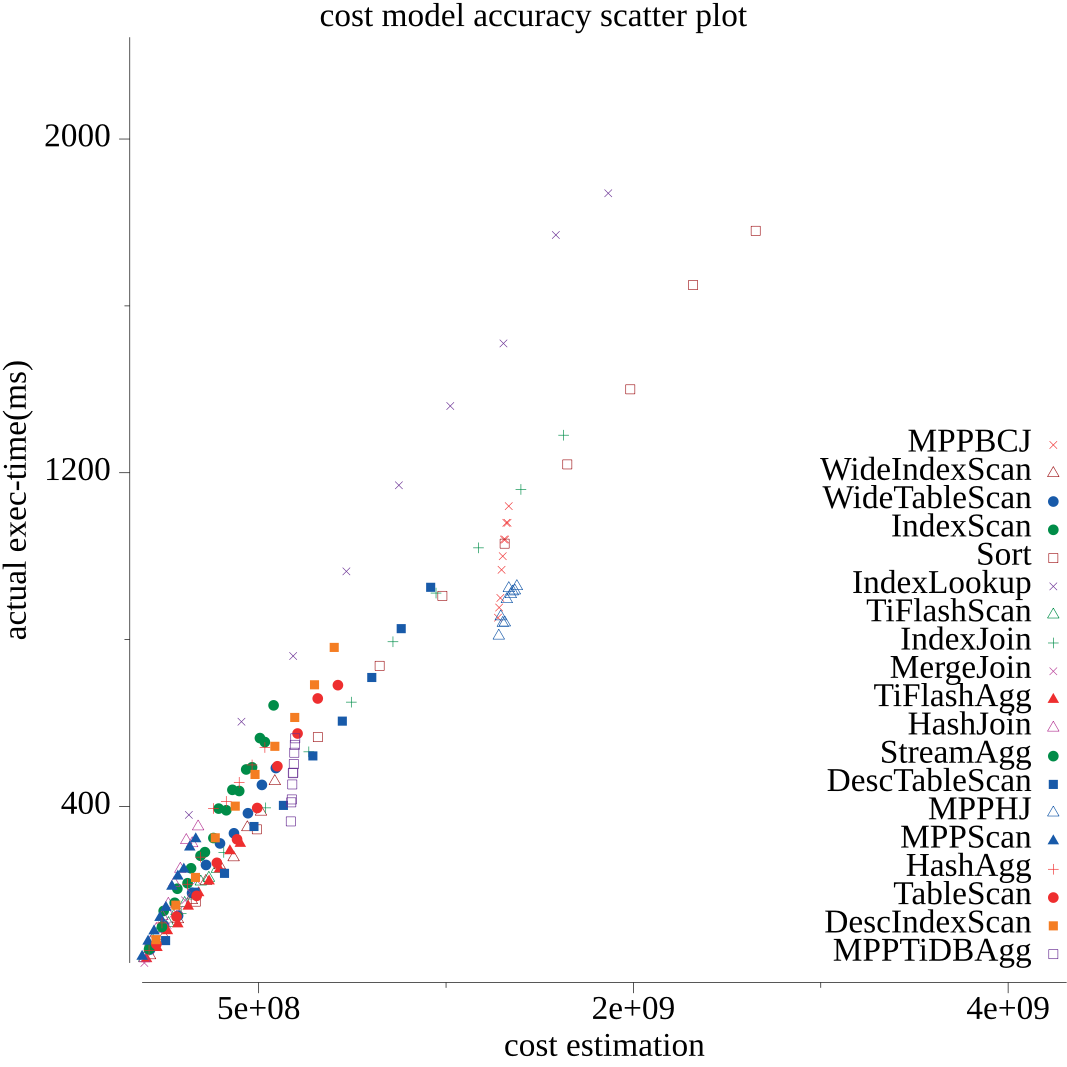
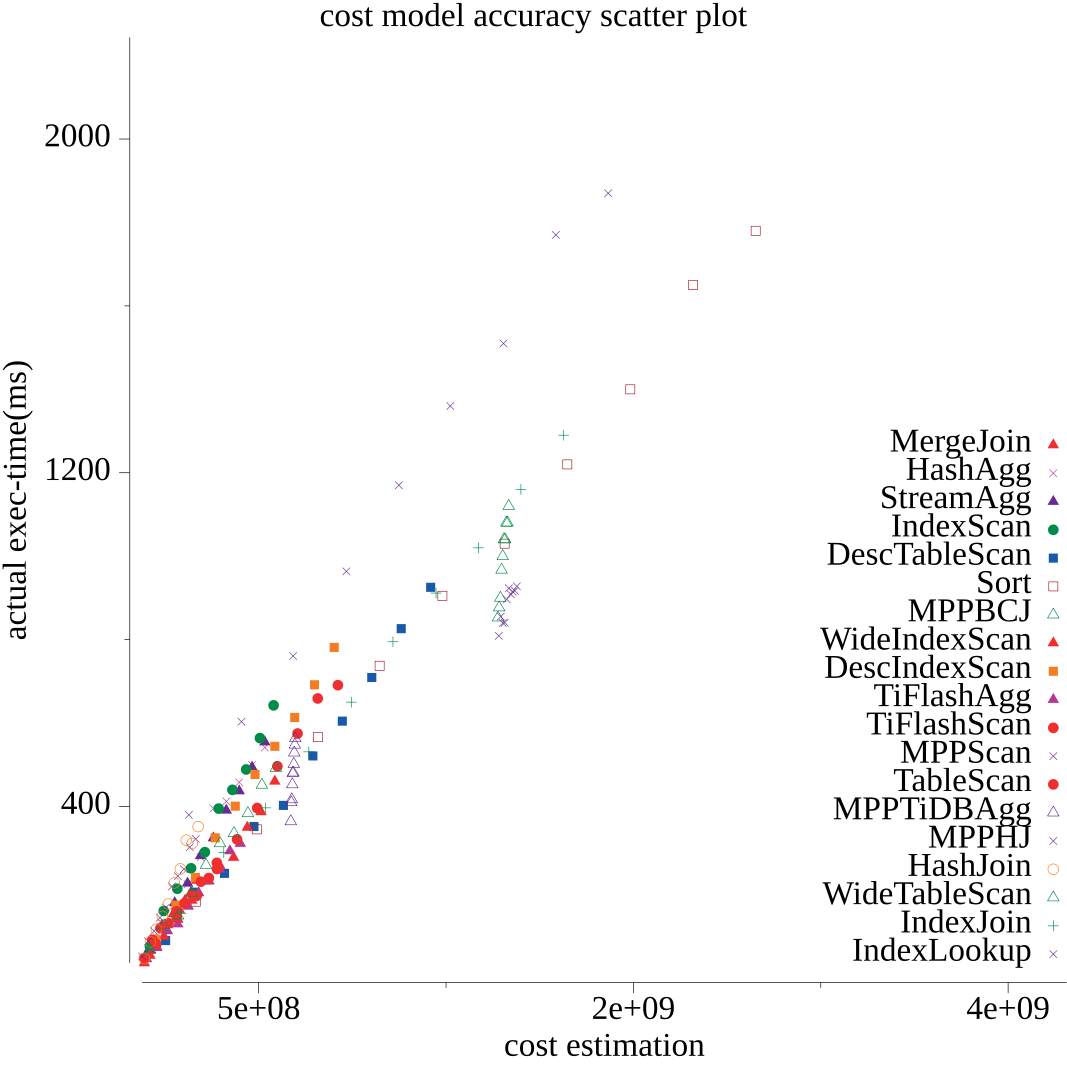
fixup

Changed region(s): [[0.7732, 0.4021, 1.0, 0.9278], [0.1237, 0.6804, 0.2784, 0.9278], [0.4639, 0.4639, 0.4948, 0.5876]]

diff --git a/cost/eval_synthetic.go b/cost/eval_synthetic.go
@@ -40,7 +40,9 @@ var syntheticExecTimeRatio = map[string]float64{
 	"TiFlashScan":  4,  // 250ms
 	"TiFlashAgg":   40, // 25ms
 	"MPPScan":      10, // 100ms
-	"MPPTiDBAgg":   4,  // 250ms
+	"MPPTiDBAgg1":  4,  // 250ms
+	"MPPTiDBAgg2":  4,
+	"MPP1PhaseAgg": 4,
 	"MPP2PhaseAgg": 4,
 	"MPPHJ":        0.5, // 1.5s
 	"MPPBCJ":       0.5,
@@ -82,8 +84,10 @@ func genSyntheticEvalQueries(ins tidb.Instance, db string, n int) Queries {
 	qs = append(qs, genSyntheticEvalTiFlashScan(ins, getSyntheticScale("TiFlashScan"), n)...)
 	qs = append(qs, genSyntheticEvalMPPScan(ins, getSyntheticScale("MPPScan"), n)...)
 	qs = append(qs, genSyntheticEvalTiFlashAgg(ins, getSyntheticScale("TiFlashAgg"), n)...)
-	qs = append(qs, genSyntheticEvalMPPTiDBAgg(ins, getSyntheticScale("MPPTiDBAgg"), n)...)
-	//qs = append(qs, genSyntheticEvalMPP2PhaseAgg(ins, getSyntheticScale("MPP2PhaseAgg"), n)...)
+	qs = append(qs, genSyntheticEvalMPPTiDBAgg1(ins, getSyntheticScale("MPPTiDBAgg1"), n)...)
+	qs = append(qs, genSyntheticEvalMPPTiDBAgg1(ins, getSyntheticScale("MPPTiDBAgg2"), n)...)
+	qs = append(qs, genSyntheticEvalMPP2PhaseAgg(ins, getSyntheticScale("MPP1PhaseAgg"), n)...)
+	qs = append(qs, genSyntheticEvalMPP2PhaseAgg(ins, getSyntheticScale("MPP2PhaseAgg"), n)...)
 	qs = append(qs, genSyntheticEvalMPPHJ(ins, getSyntheticScale("MPPHJ"), n)...)
 	qs = append(qs, genSyntheticEvalMPPBCJ(ins, getSyntheticScale("MPPBCJ"), n)...)
 	return qs
@@ -352,17 +356,51 @@ func genSyntheticEvalTiFlashAgg(ins tidb.Instance, scale float64, n int) (qs Que
 	return
 }
 
-func genSyntheticEvalMPPTiDBAgg(ins tidb.Instance, scale float64, n int) (qs Queries) {
-	var minA, maxA int
-	mustReadOneLine(ins, `select min(a), max(a) from t`, &minA, &maxA)
-	maxA = int(float64(maxA) * scale)
+func genSyntheticEvalMPPTiDBAgg1(ins tidb.Instance, scale float64, n int) (qs Queries) {
+	var minB, maxB int
+	mustReadOneLine(ins, `select min(b), max(b) from t`, &minB, &maxB)
+	maxB = int(float64(maxB) * scale)
 	tid := genTypeID()
 	for i := 0; i < n; i++ {
-		l, r := randRange(minA, maxA, i, n)
+		l, r := randRange(minB, maxB, i, n)
 		qs = append(qs, Query{
 			PreSQLs: []string{`set @@session.tidb_allow_batch_cop=1`, `set @@session.tidb_allow_mpp=1`, `set @@session.tidb_enforce_mpp=1`},
-			SQL:     fmt.Sprintf(`SELECT /*+ read_from_storage(tiflash[t]) */ COUNT(b) FROM t WHERE b>=%v and b<=%v`, l, r),
+			SQL:     fmt.Sprintf(`SELECT /*+ read_from_storage(tiflash[t]) */ COUNT(a) FROM t WHERE b>=%v and b<=%v`, l, r),
 			Label:   "MPPTiDBAgg",
+			TypeID:  tid,
+		})
+	}
+	return
+}
+
+func genSyntheticEvalMPPTiDBAgg2(ins tidb.Instance, scale float64, n int) (qs Queries) {
+	var minB, maxB int
+	mustReadOneLine(ins, `select min(b), max(b) from t`, &minB, &maxB)
+	maxB = int(float64(maxB) * scale)
+	tid := genTypeID()
+	for i := 0; i < n; i++ {
+		l, r := randRange(minB, maxB, i, n)
+		qs = append(qs, Query{
+			PreSQLs: []string{`set @@session.tidb_allow_batch_cop=1`, `set @@session.tidb_allow_mpp=1`, `set @@session.tidb_enforce_mpp=1`},
+			SQL:     fmt.Sprintf(`SELECT /*+ read_from_storage(tiflash[t]) */ COUNT(a), b FROM t WHERE b>=%v and b<=%v group by b`, l, r),
+			Label:   "MPPTiDBAgg",
+			TypeID:  tid,
+		})
+	}
+	return
+}
+
+func genSyntheticEvalMPP1PhaseAgg(ins tidb.Instance, scale float64, n int) (qs Queries) {
+	var minB, maxB int
+	mustReadOneLine(ins, `select min(b), max(b) from t`, &minB, &maxB)
+	maxB = int(float64(maxB) * scale)
+	tid := genTypeID()
+	for i := 0; i < n; i++ {
+		l, r := randRange(minB, maxB, i, n)
+		qs = append(qs, Query{
+			PreSQLs: []string{`set @@session.tidb_allow_batch_cop=1`, `set @@session.tidb_allow_mpp=1`, `set @@session.tidb_enforce_mpp=1`},
+			SQL:     fmt.Sprintf(`SELECT /*+ read_from_storage(tiflash[t]), mpp_1phase_agg() */ COUNT(a), b FROM t WHERE b>=%v and b<=%v GROUP BY b`, l, r),
+			Label:   "MPP2PhaseAgg",
 			TypeID:  tid,
 		})
 	}
@@ -378,7 +416,7 @@ func genSyntheticEvalMPP2PhaseAgg(ins tidb.Instance, scale float64, n int) (qs Q
 		l, r := randRange(minB, maxB, i, n)
 		qs = append(qs, Query{
 			PreSQLs: []string{`set @@session.tidb_allow_batch_cop=1`, `set @@session.tidb_allow_mpp=1`, `set @@session.tidb_enforce_mpp=1`},
-			SQL:     fmt.Sprintf(`SELECT /*+ read_from_storage(tiflash[t]) */ COUNT(*), b FROM t WHERE b>=%v and b<=%v GROUP BY b`, l, r),
+			SQL:     fmt.Sprintf(`SELECT /*+ read_from_storage(tiflash[t]), mpp_2phase_agg() */ COUNT(a), b FROM t WHERE b>=%v and b<=%v GROUP BY b`, l, r),
 			Label:   "MPP2PhaseAgg",
 			TypeID:  tid,
 		})
